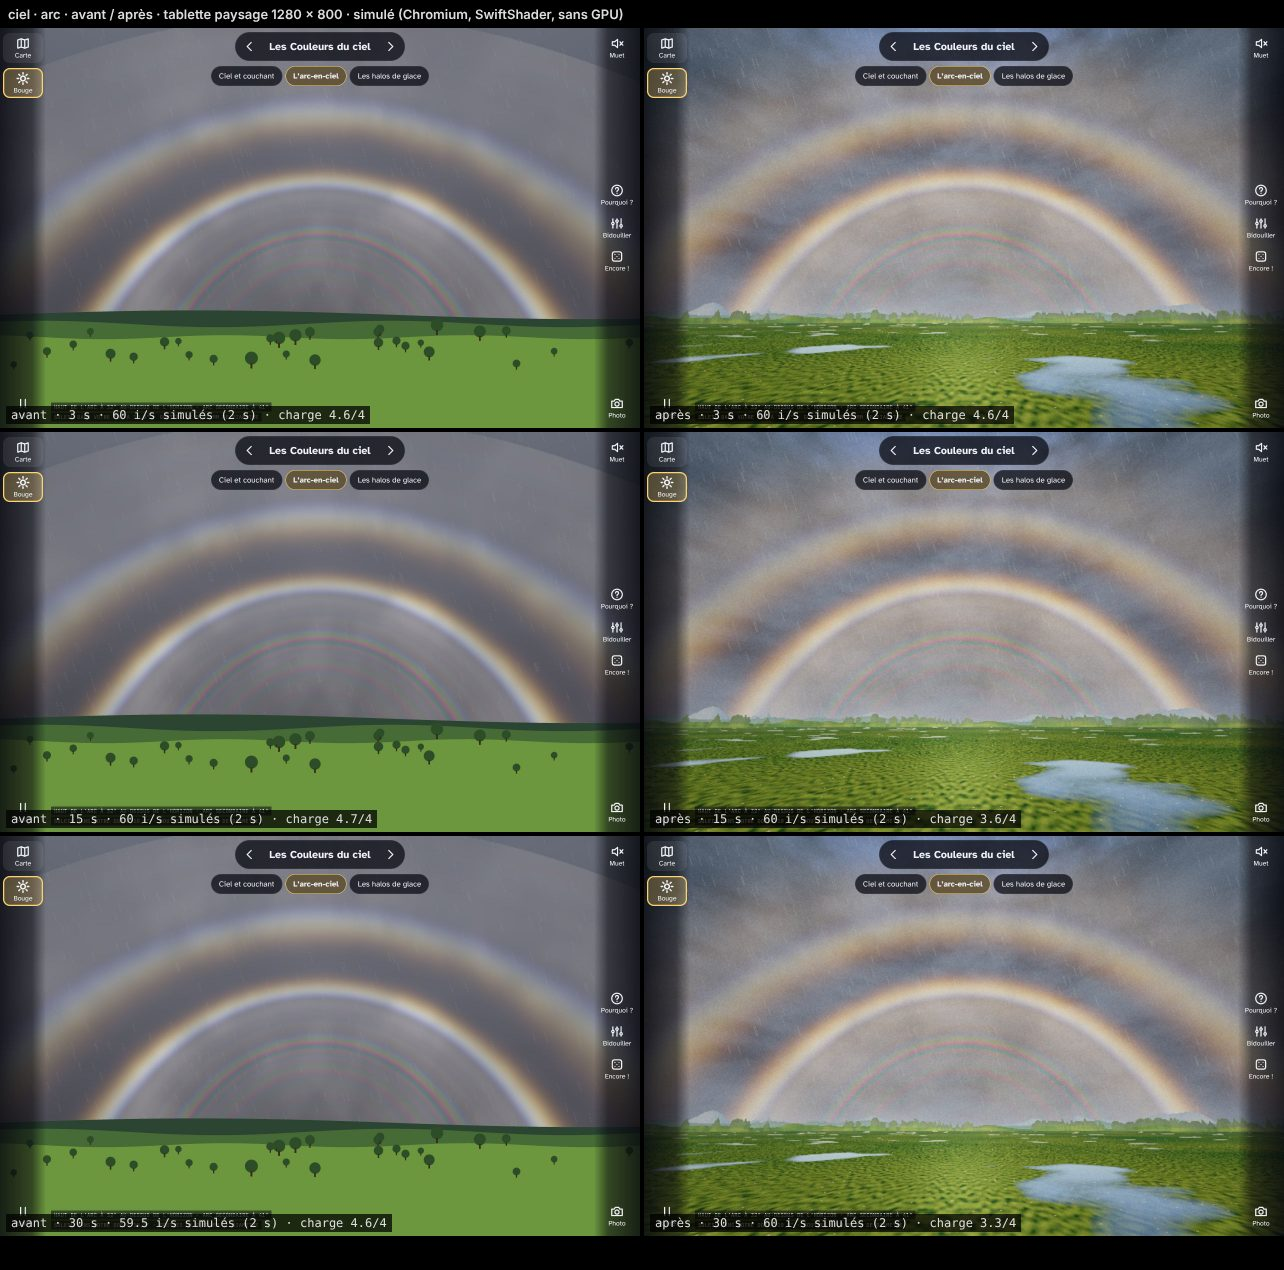
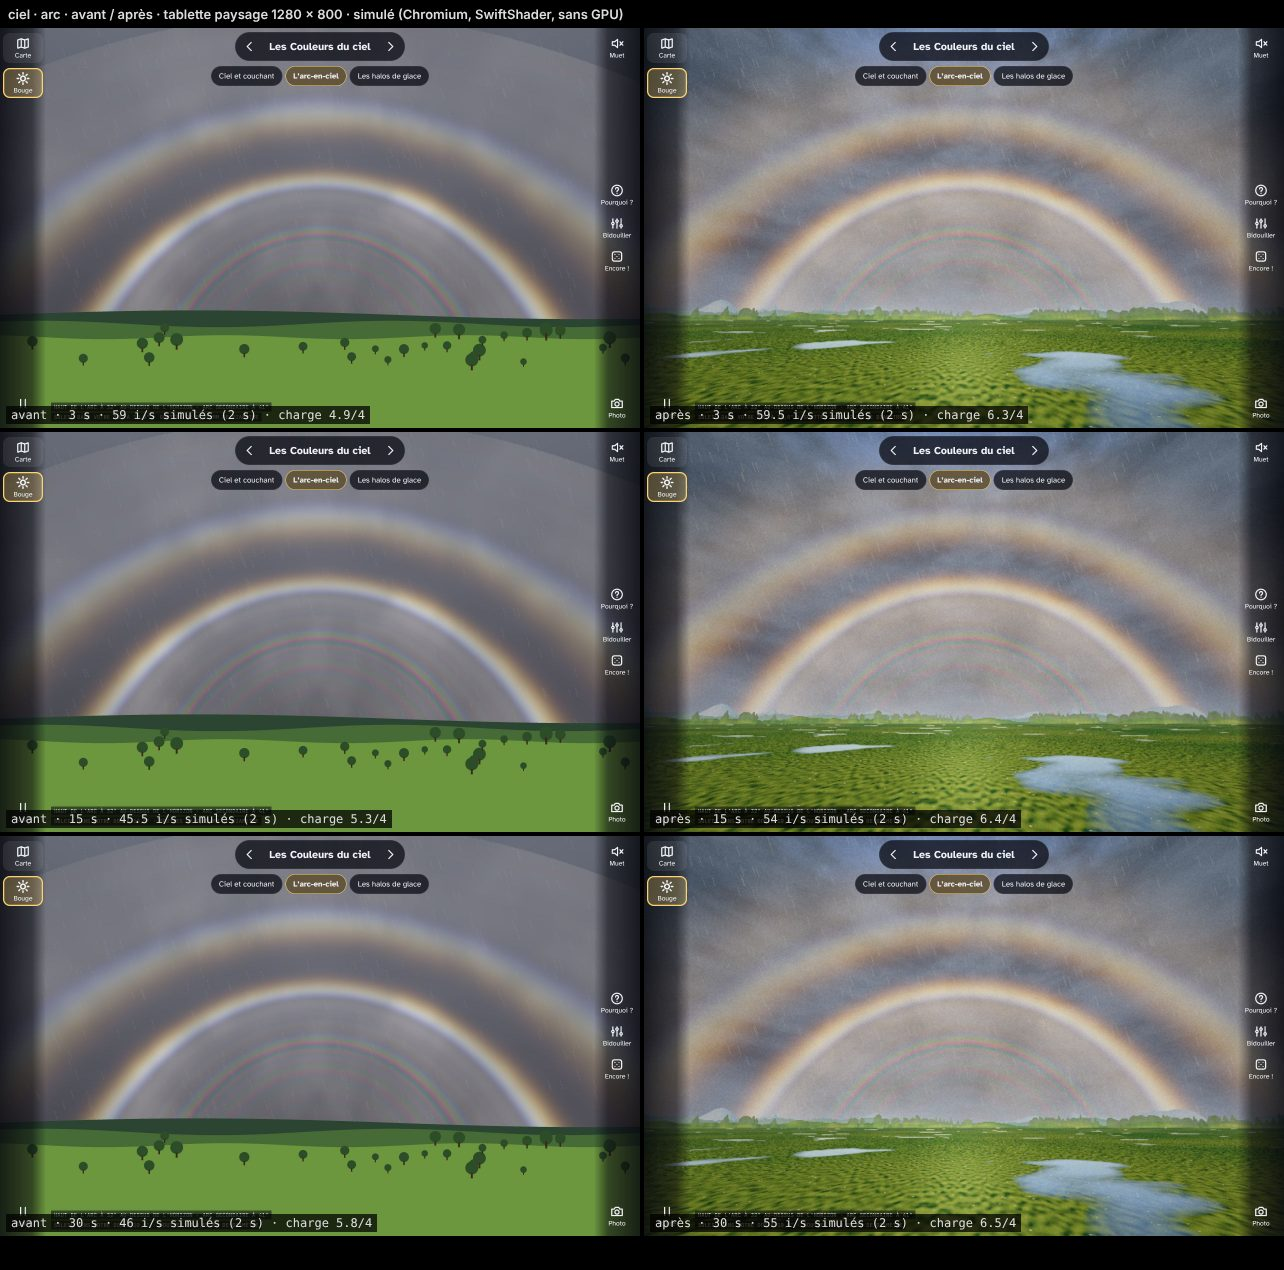
Rendu B · Les Couleurs du ciel (recette 5 ter, correctif) : facteur de pose longue appliqué à chaque composante (et non au tableau)

diff --git a/app/js/machines/s-ciel.js b/app/js/machines/s-ciel.js
@@ -1212,7 +1212,7 @@ void main(){
         const oeil = keep.auVision === 'oeil' ? 1 : 0, a = keep.auForce, I = (0.12 + 0.6 * a) * 0.45;
         // le paysage n'est éclairé que par l'aurore (surtout son vert) et par la lueur du ciel
         // la neige : éclairée surtout par le ciel de nuit (bleuté), avec un reflet vert discret de l'aurore
-        const Ec = [0, 1, 2].map((q) => (cv[q] * 0.8 + cr[q] * 0.1 * a) * I * 0.07 + [0.007, 0.0105, 0.024][q]) * (oeil ? 1 : 2);   // la pose longue accumule aussi la lumière du sol
+        const Ec = [0, 1, 2].map((q) => ((cv[q] * 0.8 + cr[q] * 0.1 * a) * I * 0.07 + [0.007, 0.0105, 0.024][q]) * (oeil ? 1 : 2));   // la pose longue accumule aussi la lumière du sol
         R.regler({ expo: 1 }).debut(dt);
         lueurs.vider();
         for (const st of stars) { const p = C.proj(st); if (!p) continue; const e = 1.1 * st[3] * (1 + 0.08 * Math.sin(T * 1.3 + st[3] * 57)); lueurs.point(p[0], p[1], 0.5 + 0.25 * st[3], e * (oeil ? 0.85 : 0.95), e * (oeil ? 0.92 : 0.97), e); }
